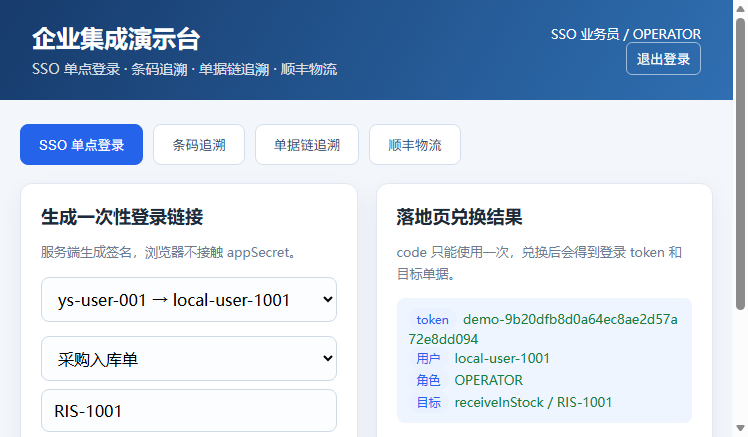
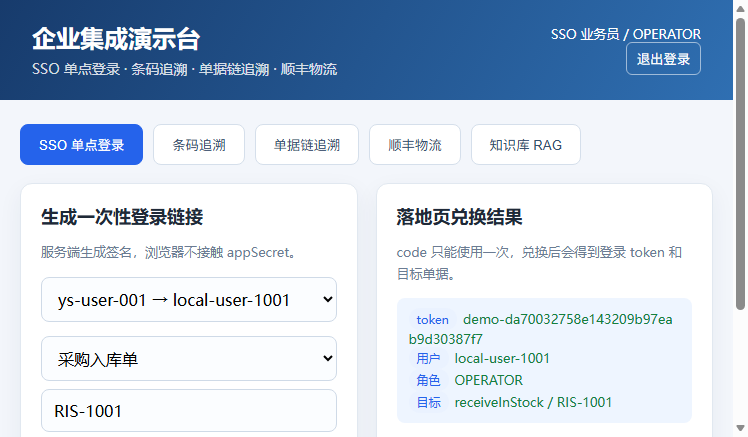
文档：补充 RAG 权限过滤和评测验证

Changed region(s): [[0.6765, 0.714, 0.9225, 0.7437], [0.6457, 0.2975, 0.7687, 0.357], [0.5535, 0.7437, 0.6457, 0.8032]]

diff --git a/README.md b/README.md
@@ -4,11 +4,14 @@
 
 - **Agent Gateway Demo**：短期用户上下文、工具注册、库存查询、采购草稿、确认执行、幂等和 SSE
 - **Business Integrations Demo**：SSO 单点登录、条码追溯、单据链追溯、顺丰物流模拟
+- **RAG Knowledge Base**：文档切分、关键词/字符 n-gram 检索、引用来源、权限过滤和评测
 - **Vue 2 控制台**：在一个页面演示 SSO、条码、单据链和顺丰流程
 
 项目使用 Java 8、Spring Boot 2.7、Vue 2 和 MySQL/Redis 可选配置。
 
 ![演示页面](docs/auth-demo.png)
+
+![RAG 知识库](docs/rag-demo.png)
 
 ## 目录
 
@@ -80,6 +83,15 @@ validate
 - 条码：事件流 + 单据链递归 + visited 防循环
 - 顺丰：嵌套报文、签名、双层成功判断、运单号回写
 
+### 5. RAG
+
+- 文档按固定窗口切分，带重叠
+- 关键词和中文双字 n-gram 检索
+- 可见范围：PUBLIC / OPERATOR / ADMIN
+- 返回引用片段和分数
+- 内置 5 条评测问题
+- 当前答案由可解释模板生成，可替换为 Dify 或任意 LLM
+
 ## 演示登录
 
 | 账号 | 密码 | 角色 |
@@ -94,11 +106,13 @@ validate
 - 业务员：SSO、条码、单据链、顺丰
 - 查看者：SSO、条码、单据链
 
+所有角色还可以使用“知识库 RAG”页签；管理员可以上传文档、删除文档和运行评测。
+
 ## 验证
 
 - Agent Gateway：库存查询、采购草稿、确认创建、重复确认幂等、直接工具调用
 - Business Integrations：SSO 授权/兑换/重放拦截、条码追溯、单据链、顺丰下单/轨迹
-- Vue 页面：真实浏览器 9/9 交互断言通过
+- Vue 页面：真实浏览器 20/20 交互断言通过
 
 详见 [docs/verification.md](docs/verification.md)。
 

diff --git a/docs/architecture.md b/docs/architecture.md
@@ -73,3 +73,17 @@ Web / Agent UI
 - `/api/sf/**` -> `SF`
 - `/api/v1/billtrace` -> `BILLTRACE`
 - `/api/admin/**` -> `AUDIT`
+
+## RAG
+
+```text
+文档
+  -> 固定窗口切分（带重叠）
+  -> 关键词 + 中文双字 n-gram 索引
+  -> 按角色过滤可见文档
+  -> TopK 检索
+  -> 引用片段 + 模板答案
+```
+
+当前不依赖外部向量库；生产环境可以把本地检索替换为
+Embedding + 向量数据库 + Rerank，并保留相同的权限过滤和引用协议。

diff --git a/docs/verification.md b/docs/verification.md
@@ -34,6 +34,10 @@ API 验证：
 - 操作日志查询
 - 查看者菜单裁剪
 - SSO 登录并进入业务员菜单
-- 16/16 断言通过
+- RAG 公开文档检索
+- RAG 管理员文档管理
+- RAG 权限过滤（查看者看不到 OPERATOR/ADMIN 文档）
+- RAG 评测 1.0 命中率
+- 20/20 断言通过
 
 > MySQL/Redis 模式已提供 Docker Compose 和 SQL 初始化脚本；当前验证环境 Docker daemon 未启动，因此该模式只完成编译和配置校验。
